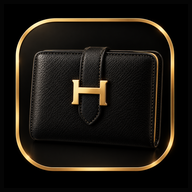
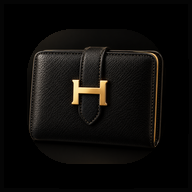
Add files via upload

Changed region(s): [[0.0625, 0.0938, 0.9375, 0.9062]]

diff --git a/index.html b/index.html
@@ -1,7 +1,7 @@
 <!doctype html>
 <html lang="id">
 <head>
-<meta charset="utf-8"><meta name="viewport" content="width=device-width,initial-scale=1,viewport-fit=cover"><meta name="theme-color" content="#142b4a"><meta name="description" content="My Financial Life - pengelola keuangan pribadi"><link rel="manifest" href="manifest.webmanifest"><title>My Financial Life V4.5</title>
+<meta charset="utf-8"><meta name="viewport" content="width=device-width,initial-scale=1,viewport-fit=cover"><meta name="theme-color" content="#142b4a"><meta name="description" content="My Financial Life - pengelola keuangan pribadi"><link rel="manifest" href="manifest.webmanifest"><title>My Financial Life V4.6</title>
 <style>
 :root{--navy:#142b4a;--blue:#2463a6;--bg:#f2f5fa;--card:#fff;--ink:#172334;--muted:#718096;--green:#16845b;--red:#c43d4b;--line:#e5eaf0;--accent:#2463a6}*{box-sizing:border-box}body{margin:0;background:var(--bg);color:var(--ink);font:14px system-ui,-apple-system,Segoe UI,Roboto,sans-serif;padding-bottom:86px}header{background:linear-gradient(135deg,#142b4a,#2463a6);color:#fff;padding:19px 17px 20px;border-radius:0 0 23px 23px}header .top{display:flex;justify-content:space-between;align-items:center}header h1{font-size:19px;margin:0}header small{opacity:.78}.balance{font-size:29px;font-weight:780;margin:16px 0 2px}.sub{font-size:12px;opacity:.78}main{max-width:760px;margin:auto;padding:14px}.grid{display:grid;grid-template-columns:repeat(2,minmax(0,1fr));gap:9px}.card{background:var(--card);padding:14px;border-radius:16px;box-shadow:0 2px 12px #142b4a0a;margin-bottom:11px}.metric small,.muted{color:var(--muted)}.metric strong{display:block;font-size:17px;margin-top:5px}.section{display:flex;justify-content:space-between;align-items:center;margin:17px 2px 9px;gap:8px}.section h2{font-size:16px;margin:0}.btn{border:0;border-radius:11px;padding:10px 13px;background:var(--accent);color:#fff;font-weight:680;cursor:pointer}.btn.secondary{background:#eaf1f9;color:var(--navy)}.btn.danger{background:#fff0f0;color:var(--red)}.btn.small{padding:7px 9px;font-size:12px}.tabs{position:fixed;bottom:0;left:0;right:0;background:#fff;border-top:1px solid var(--line);display:flex;justify-content:space-around;padding:7px 2px calc(7px + env(safe-area-inset-bottom));z-index:5;overflow-x:auto}.tabs button{border:0;background:none;color:var(--muted);font-size:10px;display:flex;flex-direction:column;gap:3px;align-items:center;min-width:52px}.tabs button.active{color:var(--accent);font-weight:800}.tabs b{font-size:19px}.view{display:none}.view.active{display:block}.row{display:flex;justify-content:space-between;align-items:center;gap:9px}.item{padding:11px 0;border-bottom:1px solid var(--line)}.item:last-child{border:0}.amount.income{color:var(--green);font-weight:750}.amount.expense{color:var(--red);font-weight:750}.amount.transfer{color:#7654a6;font-weight:750}input,select,textarea{width:100%;padding:11px;border:1px solid #dce3eb;border-radius:10px;background:#fff;font:inherit;margin:5px 0 11px;color:var(--ink)}label{font-size:12px;color:var(--muted);font-weight:700}.formgrid{display:grid;grid-template-columns:1fr 1fr;gap:8px}.full{grid-column:1/-1}.pill{font-size:10px;padding:4px 8px;border-radius:20px;background:#edf3f9;color:var(--navy);white-space:nowrap}.bar{height:9px;background:#e8edf3;border-radius:9px;overflow:hidden;margin-top:8px}.bar span{display:block;height:100%;background:var(--accent)}.empty{text-align:center;color:var(--muted);padding:20px 5px}.notice{font-size:11px;color:var(--muted);line-height:1.5}.actions{display:flex;gap:6px;flex-wrap:wrap}.hide{display:none!important}.positive{color:var(--green)}.negative{color:var(--red)}.two{display:grid;grid-template-columns:1fr 1fr;gap:8px}.tag{display:inline-block;background:#eef3f8;padding:4px 8px;border-radius:8px;font-size:11px;color:#40546c}.progress{font-size:11px;color:var(--muted);margin-top:5px}.chart{display:flex;align-items:end;gap:8px;height:125px;padding:8px 2px 0}.chartcol{flex:1;text-align:center;font-size:10px;color:var(--muted)}.chartbar{background:#4b83bb;border-radius:6px 6px 2px 2px;min-height:3px;margin:0 auto 5px;width:70%;}.lock{position:fixed;inset:0;background:#f2f5fa;z-index:20;display:none;align-items:center;justify-content:center;padding:22px}.lockbox{background:#fff;border-radius:20px;padding:22px;width:min(100%,380px);text-align:center;box-shadow:0 10px 40px #142b4a20}.lock.show{display:flex}dialog{border:0;border-radius:18px;width:min(94%,520px);padding:19px;box-shadow:0 15px 60px #0003;max-height:88vh;overflow:auto}dialog::backdrop{background:#10233d88}hr{border:0;border-top:1px solid var(--line);margin:15px 0}
 
@@ -26,7 +26,7 @@ header{background:linear-gradient(135deg,#171717 0%,var(--accent-dark) 100%);box
 input:focus,select:focus,textarea:focus{outline:2px solid color-mix(in srgb,var(--accent) 28%,transparent);border-color:var(--accent)}
 .bar span,.chartbar{background:var(--accent)}
 
-.login-icon{display:block;width:112px;height:112px;object-fit:contain;margin:0 auto 18px;border-radius:24px;filter:drop-shadow(0 8px 18px #0003)}.lockbox{padding:25px 22px}.lockbox input{text-align:center;letter-spacing:.35em;font-size:20px}
+.login-icon{display:block;width:112px;height:112px;object-fit:contain;margin:0 auto 18px;border:0;border-radius:0;background:transparent;box-shadow:none;filter:none}.lockbox{padding:25px 22px}.lockbox input{text-align:center;letter-spacing:.35em;font-size:20px}
 .security-choices{display:grid;grid-template-columns:1fr 1fr;gap:14px;margin:8px 0 4px}
 .security-choice{border:1px solid #b88d3d;border-radius:18px;background:linear-gradient(145deg,#292929,#111);color:#e0b95f;min-height:126px;padding:17px 10px;display:flex;flex-direction:column;align-items:center;justify-content:center;gap:10px;font:600 13px system-ui;cursor:pointer;box-shadow:inset 0 1px 0 #ffffff12}
 .security-choice:active{transform:scale(.98)}
@@ -36,8 +36,16 @@ input:focus,select:focus,textarea:focus{outline:2px solid color-mix(in srgb,var(
 .pin-entry input{background:#202020;color:#fff;border:1px solid #b88d3d;letter-spacing:.35em;text-align:center;font-size:20px}
 .lock{background:radial-gradient(ellipse at center,#25221b 0%,#111 58%,#080808 100%)}
 .lockbox{background:#151515;border:1px solid #8f6b2e;box-shadow:0 15px 45px #0009;color:#f4ead4}
+
+/* V4.6 finance controls */
+.balance-line{display:flex;align-items:center;gap:10px}
+.eye-toggle{border:1px solid #d2b36d;background:#2a251b;color:#f0cc78;border-radius:10px;width:38px;height:34px;font-size:18px;cursor:pointer}
+.tabs button.active{background:var(--accent-soft);border-radius:12px;padding:5px 8px;box-shadow:inset 0 0 0 1px var(--accent-line);color:var(--accent-dark)}
+.security-choice svg{width:34px;height:34px}
+.security-choice{min-height:108px;padding:13px 8px;gap:7px}
+input[data-money]{font-variant-numeric:tabular-nums}
 </style></head><body data-page="dashboard">
-<header><div class="top"><div><h1>My Financial Life</h1><small>V4.5 • Personal Finance</small></div><span class="pill">IDR • RUPIAH</span></div><div class="balance" id="netWorth">Rp0</div><div class="sub">Estimasi kekayaan bersih</div></header>
+<header><div class="top"><div><h1>My Financial Life</h1><small>V4.6 • Personal Finance</small></div><span class="pill">IDR • RUPIAH</span></div><div class="balance-line"><div class="balance" id="netWorth">Rp0</div><button class="eye-toggle" id="netWorthEye" type="button" onclick="toggleNetWorth()" aria-label="Sembunyikan estimasi kekayaan bersih">◉</button></div><div class="sub">Estimasi kekayaan bersih</div></header>
 <main>
 <section id="dashboard" class="view active"><div class="grid"><div class="card metric"><small>Pemasukan bulan ini</small><strong id="monthIn">Rp0</strong></div><div class="card metric"><small>Pengeluaran bulan ini</small><strong id="monthOut">Rp0</strong></div><div class="card metric"><small>Saldo seluruh akun</small><strong id="totalBalance">Rp0</strong></div><div class="card metric"><small>Selisih bulan ini</small><strong id="monthNet">Rp0</strong></div></div>
 <div class="section"><h2>Analisis keuangan</h2><span class="pill" id="analysisMonth"></span></div><div class="card" id="insights"></div><div class="card"><b>Tren 6 bulan terakhir</b><div id="trendChart" class="chart"></div><div class="notice">Grafik menunjukkan total pengeluaran bulanan.</div></div>
@@ -49,7 +57,7 @@ input:focus,select:focus,textarea:focus{outline:2px solid color-mix(in srgb,var(
 <section id="settings" class="view"><div class="section"><h2>Keamanan & data</h2></div><div class="card"><b>Kunci aplikasi</b><p class="notice">PIN membantu mencegah orang lain membuka aplikasi pada perangkat ini. Biometrik bergantung pada dukungan browser/perangkat. Ini bukan enkripsi database atau perlindungan terhadap orang yang dapat mengakses penyimpanan browser.</p><div class="actions"><button class="btn" onclick="setupPin()">Atur / ubah PIN</button><button class="btn secondary" onclick="toggleBiometric()">Atur biometrik</button><button class="btn danger" onclick="removePin()">Nonaktifkan PIN</button></div><p class="notice" id="securityStatus"></p></div><div class="card"><b>Backup & pemulihan</b><p class="notice">Backup mencakup akun, transaksi, tujuan, anggaran, jadwal, dan utang. Simpan file JSON di tempat pribadi yang aman; jangan unggah ke repository publik.</p><div class="actions"><button class="btn" onclick="backup()">Ekspor backup</button><label class="btn secondary" style="cursor:pointer">Pulihkan backup<input id="restoreFile" type="file" accept="application/json" class="hide" onchange="restore(event)"></label></div><p class="notice">Sebelum memulihkan, aplikasi akan membuat backup data saat ini dan meminta konfirmasi.</p><hr><b>Data aplikasi</b><button class="btn danger" onclick="resetData()">Hapus seluruh data</button></div><div class="card"><b>Tentang aplikasi</b><p class="notice">My Financial Life V4.3 berjalan secara lokal di perangkat. Tidak ada login atau sinkronisasi cloud. Untuk pindah perangkat, ekspor lalu pulihkan file backup.</p></div></section>
 </main>
 <nav class="tabs"><button class="active" onclick="go('dashboard',this)"><b>🏠</b>Beranda</button><button onclick="go('transactions',this)"><b>💸</b>Transaksi</button><button onclick="go('accounts',this)"><b>🏦</b>Akun</button><button onclick="go('goals',this)"><b>🎯</b>Tujuan</button><button onclick="go('planning',this)"><b>📊</b>Rencana</button><button onclick="go('settings',this)"><b>⚙</b>Data</button></nav>
-<dialog id="txDialog"><form id="txForm"><div class="row"><h3 id="formTitle">Tambah transaksi</h3><button type="button" class="btn secondary small" onclick="txDialog.close()">Tutup</button></div><input type="hidden" id="txId"><label>Jenis</label><select id="txType"><option value="expense">Pengeluaran</option><option value="income">Pemasukan</option></select><label>Nominal (Rp)</label><input id="txAmount" type="number" min="1" step="1" required placeholder="50000"><label>Keterangan</label><input id="txNote" required placeholder="Contoh: Belanja bulanan"><div class="formgrid"><div><label>Tanggal</label><input id="txDate" type="date" required></div><div><label>Akun</label><select id="txAccount"></select></div></div><label>Kategori</label><select id="txCategory"></select><button class="btn" style="width:100%">Simpan transaksi</button></form></dialog>
+<dialog id="txDialog"><form id="txForm"><div class="row"><h3 id="formTitle">Tambah transaksi</h3><button type="button" class="btn secondary small" onclick="txDialog.close()">Tutup</button></div><input type="hidden" id="txId"><label>Jenis</label><select id="txType"><option value="expense">Pengeluaran</option><option value="income">Pemasukan</option></select><label>Nominal (Rp)</label><input id="txAmount" type="text" inputmode="numeric" data-money required placeholder="50.000"><label>Keterangan</label><input id="txNote" required placeholder="Contoh: Belanja bulanan"><div class="formgrid"><div><label>Tanggal</label><input id="txDate" type="date" required></div><div><label>Akun</label><select id="txAccount"></select></div></div><label>Kategori</label><select id="txCategory"></select><button class="btn" style="width:100%">Simpan transaksi</button></form></dialog>
 <div class="lock" id="lockScreen">
   <div class="lockbox">
     <img class="login-icon" src="./icon-192.png" alt=""/>
@@ -77,21 +85,30 @@ let data=load();function load(){try{let old=JSON.parse(localStorage.getItem(KEY)
 function esc(s){return String(s??'').replace(/[&<>"']/g,c=>({'&':'&amp;','<':'&lt;','>':'&gt;','"':'&quot;',"'":'&#39;'}[c]))}function accountBalance(id){let a=data.accounts.find(x=>x.id===id);let tx=data.tx.filter(t=>t.account===id).reduce((s,t)=>s+(t.type==='income'?1:-1)*Number(t.amount),0);let tr=(data.transfers||[]).reduce((s,t)=>s+(t.from===id?-Number(t.amount):t.to===id?Number(t.amount):0),0);return (Number(a?.opening)||0)+tx+tr}function totals(){let t=data.tx.filter(x=>x.date.startsWith(month()));return {inc:t.filter(x=>x.type==='income').reduce((s,x)=>s+ +x.amount,0),out:t.filter(x=>x.type==='expense').reduce((s,x)=>s+ +x.amount,0)}}
 function go(id,el){document.querySelectorAll('.view').forEach(x=>x.classList.remove('active'));document.getElementById(id).classList.add('active');document.body.dataset.page=id;document.querySelectorAll('.tabs button').forEach(x=>x.classList.remove('active'));if(el)el.classList.add('active');else [...document.querySelectorAll('.tabs button')].find(x=>x.getAttribute('onclick')?.includes("'"+id+"'"))?.classList.add('active');render()}
 function txHtml(t){let acc=data.accounts.find(a=>a.id===t.account)?.name||'Akun dihapus';return `<div class="item row"><div style="min-width:0"><b>${esc(t.note)}</b><div class="muted" style="font-size:11px">${t.date} • ${esc(t.category||'Lainnya')} • ${esc(acc)}</div></div><div style="text-align:right;flex-shrink:0"><div class="amount ${t.type}">${t.type==='income'?'+':'−'}${rupiah(t.amount)}</div><div class="actions" style="justify-content:flex-end;margin-top:5px"><button class="btn small secondary" onclick="editTx('${t.id}')">Edit</button><button class="btn small danger" onclick="deleteTx('${t.id}')">Hapus</button></div></div></div>`}
-function render(){let t=totals(),bal=data.accounts.reduce((s,a)=>s+accountBalance(a.id),0),assets=data.assets.filter(a=>a.kind==='asset').reduce((s,a)=>s+ +a.amount,0),debts=data.assets.filter(a=>a.kind==='debt').reduce((s,a)=>s+ +a.amount,0)+(data.debts||[]).reduce((s,d)=>s+Math.max(0,d.remaining),0);document.getElementById('netWorth').textContent=rupiah(bal+assets-debts);document.getElementById('monthIn').textContent=rupiah(t.inc);document.getElementById('monthOut').textContent=rupiah(t.out);document.getElementById('totalBalance').textContent=rupiah(bal);document.getElementById('monthNet').textContent=rupiah(t.inc-t.out);document.getElementById('analysisMonth').textContent=month();let recent=[...data.tx].sort((a,b)=>b.date.localeCompare(a.date)).slice(0,5);document.getElementById('recent').innerHTML=recent.length?recent.map(txHtml).join(''):'<div class="empty">Belum ada transaksi.</div>';document.getElementById('goalSummary').innerHTML=data.goals.slice(0,3).map(goalHtml).join('')||'<div class="empty">Belum ada tujuan tabungan.</div>';renderTransactions();renderAccounts();renderGoals();renderPlanning();renderInsights();renderSecurity()}
+let netWorthHidden=false;
+function toggleNetWorth(){netWorthHidden=!netWorthHidden;const el=document.getElementById('netWorth'),btn=document.getElementById('netWorthEye');el.textContent=netWorthHidden?'••••••••':el.dataset.actual||el.textContent;btn.textContent=netWorthHidden?'◎':'◉';btn.setAttribute('aria-label',netWorthHidden?'Tampilkan estimasi kekayaan bersih':'Sembunyikan estimasi kekayaan bersih')}
+function parseNominal(v){return Number(String(v??'').replace(/[^0-9-]/g,''))||0}
+function formatNominal(v){let digits=String(v??'').replace(/[^0-9]/g,'');return digits.replace(/\B(?=(\d{3})+(?!\d))/g,'.')}
+document.addEventListener('input',e=>{if(e.target.matches('[data-money]')){e.target.value=formatNominal(e.target.value)}});
+function render(){let t=totals(),bal=data.accounts.reduce((s,a)=>s+accountBalance(a.id),0),assets=data.assets.filter(a=>a.kind==='asset').reduce((s,a)=>s+ +a.amount,0),debts=data.assets.filter(a=>a.kind==='debt').reduce((s,a)=>s+ +a.amount,0)+(data.debts||[]).reduce((s,d)=>s+Math.max(0,d.remaining),0);const nw=document.getElementById('netWorth');nw.dataset.actual=rupiah(bal+assets-debts);nw.textContent=netWorthHidden?'••••••••':nw.dataset.actual;document.getElementById('monthIn').textContent=rupiah(t.inc);document.getElementById('monthOut').textContent=rupiah(t.out);document.getElementById('totalBalance').textContent=rupiah(bal);document.getElementById('monthNet').textContent=rupiah(t.inc-t.out);document.getElementById('analysisMonth').textContent=month();let recent=[...data.tx].sort((a,b)=>b.date.localeCompare(a.date)).slice(0,5);document.getElementById('recent').innerHTML=recent.length?recent.map(txHtml).join(''):'<div class="empty">Belum ada transaksi.</div>';document.getElementById('goalSummary').innerHTML=data.goals.slice(0,3).map(goalHtml).join('')||'<div class="empty">Belum ada tujuan tabungan.</div>';renderTransactions();renderAccounts();renderGoals();renderPlanning();renderInsights();renderSecurity()}
 function renderTransactions(){let f=document.getElementById('filterMonth')?.value||'',q=(document.getElementById('searchTx')?.value||'').toLowerCase(),ty=document.getElementById('filterType')?.value||'',ac=document.getElementById('filterAccount')?.value||'',cat=document.getElementById('filterCategory')?.value||'';let list=[...data.tx].filter(t=>(!f||t.date.startsWith(f))&&(!q||(t.note+' '+t.category).toLowerCase().includes(q))&&(!ty||t.type===ty)&&(!ac||t.account===ac)&&(!cat||t.category===cat)).sort((a,b)=>b.date.localeCompare(a.date));let a=document.getElementById('filterAccount');if(a){let v=a.value;a.innerHTML='<option value="">Semua akun</option>'+data.accounts.map(x=>`<option value="${x.id}">${esc(x.name)}</option>`).join('');a.value=v}let c=document.getElementById('filterCategory');if(c){let v=c.value,cs=[...new Set(data.tx.map(x=>x.category).filter(Boolean))];c.innerHTML='<option value="">Semua kategori</option>'+cs.map(x=>`<option>${esc(x)}</option>`).join('');c.value=v}document.getElementById('transactionList').innerHTML=list.map(txHtml).join('')||'<div class="empty">Tidak ada transaksi sesuai filter.</div>'}
 function renderAccounts(){document.getElementById('accountList').innerHTML=data.accounts.map(a=>`<div class="item row"><div><b>${esc(a.name)}</b><div class="muted" style="font-size:11px">Saldo awal ${rupiah(a.opening)}</div></div><div style="text-align:right"><b>${rupiah(accountBalance(a.id))}</b><div class="actions"><button class="btn small secondary" onclick="editAccount('${a.id}')">Ubah</button><button class="btn small danger" onclick="deleteAccount('${a.id}')">Hapus</button></div></div></div>`).join('');let tr=[...(data.transfers||[])].sort((a,b)=>b.date.localeCompare(a.date));document.getElementById('transferList').innerHTML=tr.map(x=>`<div class="item row"><div><b>${esc(data.accounts.find(a=>a.id===x.from)?.name||'Akun')} → ${esc(data.accounts.find(a=>a.id===x.to)?.name||'Akun')}</b><div class="notice">${x.date}</div></div><b>${rupiah(x.amount)}</b></div>`).join('')||'<div class="empty">Belum ada transfer.</div>'}
 function goalHtml(g){let pct=g.target?Math.min(100,g.saved/g.target*100):0;return `<div class="item"><div class="row"><b>${esc(g.name)}</b><span class="pill">${pct.toFixed(0)}%</span></div><div class="bar"><span style="width:${pct}%"></span></div><div class="row muted" style="font-size:11px;margin-top:6px"><span>${rupiah(g.saved)} terkumpul</span><span>Target ${rupiah(g.target)}</span></div><div class="actions" style="margin-top:8px"><button class="btn small secondary" onclick="contribute('${g.id}')">Tambah tabungan</button><button class="btn small secondary" onclick="editGoal('${g.id}')">Ubah</button><button class="btn small danger" onclick="removeGoal('${g.id}')">Hapus</button></div></div>`}
 function renderGoals(){let emergency=data.goals.find(g=>g.emergency);document.getElementById('emergencyCard').innerHTML=`<b>🛟 Dana darurat</b><p class="notice">Saran target umum: 3–6 kali pengeluaran bulanan. Sesuaikan dengan kondisi pribadi.</p>${emergency?goalHtml(emergency):'<button class="btn" onclick="createEmergency()">Buat target dana darurat</button>'}`;document.getElementById('goalList').innerHTML=data.goals.map(g=>`<div class="card">${goalHtml(g)}</div>`).join('')||'<div class="card empty">Buat tujuan seperti dana darurat, liburan, atau pendidikan.</div>'}
-function renderPlanning(){let t=totals();document.getElementById('categoryBudgets').innerHTML=data.categoryBudgets.length?data.categoryBudgets.map(b=>{let used=data.tx.filter(x=>x.type==='expense'&&x.date.startsWith(month())&&x.category===b.category).reduce((s,x)=>s+Number(x.amount),0),p=Math.min(100,used/b.amount*100);return `<div class="item"><div class="row"><b>${esc(b.category)}</b><span>${rupiah(used)} / ${rupiah(b.amount)}</span></div><div class="bar"><span style="width:${p}%"></span></div><div class="row progress"><span>${p.toFixed(0)}% terpakai</span><button class="btn small danger" onclick="removeCategoryBudget('${b.id}')">Hapus</button></div></div>`}).join(''):'<div class="empty">Belum ada anggaran kategori.</div>';document.getElementById('budgetView').innerHTML=data.budget?`<div class="row"><b>Batas pengeluaran bulanan</b><b>${rupiah(data.budget)}</b></div><div class="bar"><span style="width:${Math.min(100,t.out/data.budget*100)}%"></span></div><p class="notice">${rupiah(t.out)} terpakai • ${rupiah(data.budget-t.out)} tersisa</p>`:'Belum ada anggaran umum.';document.getElementById('recurringList').innerHTML=data.recurring.map(r=>`<div class="item row"><div><b>${esc(r.name)}</b><div class="notice">${esc(r.category)} • ${r.day} tiap bulan • ${r.active?'Aktif':'Nonaktif'}</div></div><div style="text-align:right"><b>${rupiah(r.amount)}</b><div class="actions"><button class="btn small secondary" onclick="toggleRecurring('${r.id}')">${r.active?'Jeda':'Aktifkan'}</button><button class="btn small danger" onclick="deleteRecurring('${r.id}')">Hapus</button></div></div></div>`).join('')||'<div class="empty">Belum ada jadwal tagihan/rutin.</div>';document.getElementById('debtList').innerHTML=data.debts.map(d=>`<div class="item"><div class="row"><b>${esc(d.name)}</b><span class="tag">Sisa ${rupiah(d.remaining)}</span></div><div class="notice">Awal ${rupiah(d.total)} • Cicilan ${rupiah(d.installment)} / bulan • Jatuh tempo tanggal ${d.due||'-'}</div><div class="actions"><button class="btn small" onclick="payDebt('${d.id}')">Catat pembayaran</button><button class="btn small danger" onclick="deleteDebt('${d.id}')">Hapus</button></div></div>`).join('')||'<div class="empty">Belum ada utang/cicilan tercatat.</div>';document.getElementById('assetList').innerHTML=data.assets.map(a=>`<div class="item row"><div><b>${esc(a.name)}</b><div class="muted">${a.kind==='asset'?'Aset':'Kewajiban'}</div></div><b>${rupiah(a.amount)}</b><button class="btn small danger" onclick="removeAsset('${a.id}')">×</button></div>`).join('')||'<div class="empty">Belum ada aset atau kewajiban lain.</div>'}
+function renderPlanning(){let t=totals();document.getElementById('categoryBudgets').innerHTML=data.categoryBudgets.length?data.categoryBudgets.map(b=>{let used=data.tx.filter(x=>x.type==='expense'&&x.date.startsWith(month())&&x.category===b.category).reduce((s,x)=>s+Number(x.amount),0),p=Math.min(100,used/b.amount*100);return `<div class="item"><div class="row"><b>${esc(b.category)}</b><span>${rupiah(used)} / ${rupiah(b.amount)}</span></div><div class="bar"><span style="width:${p}%"></span></div><div class="row progress"><span>${p.toFixed(0)}% terpakai</span><button class="btn small secondary" onclick="editCategoryBudget('${b.id}')">Ubah</button><button class="btn small danger" onclick="removeCategoryBudget('${b.id}')">Hapus</button></div></div>`}).join(''):'<div class="empty">Belum ada anggaran kategori.</div>';document.getElementById('budgetView').innerHTML=data.budget?`<div class="row"><b>Batas pengeluaran bulanan</b><b>${rupiah(data.budget)}</b></div><div class="bar"><span style="width:${Math.min(100,t.out/data.budget*100)}%"></span></div><p class="notice">${rupiah(t.out)} terpakai • ${rupiah(data.budget-t.out)} tersisa</p>`:'Belum ada anggaran umum.';document.getElementById('recurringList').innerHTML=data.recurring.map(r=>`<div class="item row"><div><b>${esc(r.name)}</b><div class="notice">${esc(r.category)} • ${r.day} tiap bulan • ${r.active?'Aktif':'Nonaktif'}</div></div><div style="text-align:right"><b>${rupiah(r.amount)}</b><div class="actions"><button class="btn small secondary" onclick="editRecurring('${r.id}')">Ubah</button><button class="btn small secondary" onclick="toggleRecurring('${r.id}')">${r.active?'Jeda':'Aktifkan'}</button><button class="btn small danger" onclick="deleteRecurring('${r.id}')">Hapus</button></div></div></div>`).join('')||'<div class="empty">Belum ada jadwal tagihan/rutin.</div>';document.getElementById('debtList').innerHTML=data.debts.map(d=>`<div class="item"><div class="row"><b>${esc(d.name)}</b><span class="tag">Sisa ${rupiah(d.remaining)}</span></div><div class="notice">Awal ${rupiah(d.total)} • Cicilan ${rupiah(d.installment)} / bulan • Jatuh tempo tanggal ${d.due||'-'}</div><div class="actions"><button class="btn small secondary" onclick="editDebt('${d.id}')">Ubah</button><button class="btn small" onclick="payDebt('${d.id}')">Catat pembayaran</button><button class="btn small danger" onclick="deleteDebt('${d.id}')">Hapus</button></div></div>`).join('')||'<div class="empty">Belum ada utang/cicilan tercatat.</div>';document.getElementById('assetList').innerHTML=data.assets.map(a=>`<div class="item row"><div><b>${esc(a.name)}</b><div class="muted">${a.kind==='asset'?'Aset':'Kewajiban'}</div></div><b>${rupiah(a.amount)}</b><button class="btn small danger" onclick="removeAsset('${a.id}')">×</button></div>`).join('')||'<div class="empty">Belum ada aset atau kewajiban lain.</div>'}
 function renderInsights(){let t=totals(),by={};data.tx.filter(x=>x.type==='expense'&&x.date.startsWith(month())).forEach(x=>by[x.category]=(by[x.category]||0)+Number(x.amount));let top=Object.entries(by).sort((a,b)=>b[1]-a[1])[0],savings=t.inc-t.out,alerts=[];if(t.inc===0&&t.out>0)alerts.push('Belum ada pemasukan tercatat bulan ini.');if(t.inc>0)alerts.push(`Rasio tabungan bulan ini: ${(savings/t.inc*100).toFixed(1)}% dari pemasukan.`);if(top)alerts.push(`Kategori pengeluaran terbesar: ${top[0]} (${rupiah(top[1])}).`);data.categoryBudgets.forEach(b=>{let used=by[b.category]||0;if(used>=b.amount)alerts.push(`Anggaran ${b.category} sudah terlampaui.`);else if(used>=b.amount*.8)alerts.push(`Anggaran ${b.category} sudah terpakai lebih dari 80%.`)});document.getElementById('insights').innerHTML=(alerts.length?alerts:['Catat transaksi untuk mendapatkan analisis otomatis.']).map(x=>`<div class="item">• ${esc(x)}</div>`).join('')+`<div class="row" style="margin-top:9px"><span>Arus kas bulan ini</span><b class="${savings>=0?'positive':'negative'}">${rupiah(savings)}</b></div>`;let vals=[];for(let i=5;i>=0;i--){let d=new Date();d.setDate(1);d.setMonth(d.getMonth()-i);let m=d.toISOString().slice(0,7),v=data.tx.filter(x=>x.type==='expense'&&x.date.startsWith(m)).reduce((s,x)=>s+Number(x.amount),0);vals.push({m,v})}let max=Math.max(1,...vals.map(x=>x.v));document.getElementById('trendChart').innerHTML=vals.map(x=>`<div class="chartcol"><div class="chartbar" style="height:${Math.max(3,x.v/max*90)}px"></div>${x.m.slice(5)}</div>`).join('')}
-function openForm(t){document.getElementById('txForm').reset();document.getElementById('txId').value=t?.id||'';document.getElementById('formTitle').textContent=t?'Edit transaksi':'Tambah transaksi';document.getElementById('txType').value=t?.type||'expense';document.getElementById('txAmount').value=t?.amount||'';document.getElementById('txNote').value=t?.note||'';document.getElementById('txDate').value=t?.date||today();document.getElementById('txAccount').innerHTML=data.accounts.map(a=>`<option value="${a.id}">${esc(a.name)}</option>`).join('');document.getElementById('txAccount').value=t?.account||data.accounts[0]?.id;fillCats(t?.category);txDialog.showModal()}function fillCats(selected){let cats=txType.value==='income'?['Gaji','Bonus','Usaha','Investasi','Hadiah','Lainnya']:['Makanan','Transportasi','Tagihan','Belanja','Kesehatan','Hiburan','Pendidikan','Rumah tangga','Cicilan','Perawatan diri','Lainnya'];txCategory.innerHTML=cats.map(c=>`<option>${c}</option>`).join('');if(selected&&!cats.includes(selected))txCategory.add(new Option(selected,selected));if(selected)txCategory.value=selected}txType.addEventListener('change',()=>fillCats());txForm.addEventListener('submit',e=>{e.preventDefault();let id=txId.value,item={id:id||uid(),type:txType.value,amount:Number(txAmount.value),note:txNote.value.trim(),date:txDate.value,account:txAccount.value,category:txCategory.value};if(id)data.tx=data.tx.map(x=>x.id===id?item:x);else data.tx.push(item);txDialog.close();save()});function editTx(id){openForm(data.tx.find(t=>t.id===id))}function deleteTx(id){if(confirm('Hapus transaksi ini?')){data.tx=data.tx.filter(t=>t.id!==id);save()}}
+function openForm(t){document.getElementById('txForm').reset();document.getElementById('txId').value=t?.id||'';document.getElementById('formTitle').textContent=t?'Edit transaksi':'Tambah transaksi';document.getElementById('txType').value=t?.type||'expense';document.getElementById('txAmount').value=t?formatNominal(t.amount):'';document.getElementById('txNote').value=t?.note||'';document.getElementById('txDate').value=t?.date||today();document.getElementById('txAccount').innerHTML=data.accounts.map(a=>`<option value="${a.id}">${esc(a.name)}</option>`).join('');document.getElementById('txAccount').value=t?.account||data.accounts[0]?.id;fillCats(t?.category);txDialog.showModal()}function fillCats(selected){let cats=txType.value==='income'?['Gaji','Bonus','Usaha','Investasi','Hadiah','Lainnya']:['Makanan','Transportasi','Tagihan','Belanja','Kesehatan','Hiburan','Pendidikan','Rumah tangga','Cicilan','Perawatan diri','Lainnya'];txCategory.innerHTML=cats.map(c=>`<option>${c}</option>`).join('');if(selected&&!cats.includes(selected))txCategory.add(new Option(selected,selected));if(selected)txCategory.value=selected}txType.addEventListener('change',()=>fillCats());txForm.addEventListener('submit',e=>{e.preventDefault();let id=txId.value,item={id:id||uid(),type:txType.value,amount:parseNominal(txAmount.value),note:txNote.value.trim(),date:txDate.value,account:txAccount.value,category:txCategory.value};if(id)data.tx=data.tx.map(x=>x.id===id?item:x);else data.tx.push(item);txDialog.close();save()});function editTx(id){openForm(data.tx.find(t=>t.id===id))}function deleteTx(id){if(confirm('Hapus transaksi ini?')){data.tx=data.tx.filter(t=>t.id!==id);save()}}
 function addAccount(){let name=prompt('Nama akun baru:');if(!name)return;let opening=Number(prompt('Saldo awal akun (Rp):','0'));data.accounts.push({id:uid(),name:name.trim(),opening:isFinite(opening)?opening:0});save()}function editAccount(id){let a=data.accounts.find(x=>x.id===id);if(!a)return;let name=prompt('Ubah nama akun:',a.name);if(name===null)return;if(!name.trim())return alert('Nama akun tidak boleh kosong.');let openingText=prompt('Ubah nominal saldo awal akun (Rp):',String(Number(a.opening)||0));if(openingText===null)return;let normalized=openingText.replace(/[^0-9-]/g,'');let opening=Number(normalized);if(!Number.isFinite(opening)||opening<0)return alert('Nominal saldo awal tidak valid. Masukkan angka 0 atau lebih.');a.name=name.trim();a.opening=opening;save();alert('Nama dan saldo awal akun berhasil diperbarui. Saldo akhir akan dihitung ulang dari transaksi dan transfer yang tercatat.')}function deleteAccount(id){let a=data.accounts.find(x=>x.id===id);if(data.accounts.length<=1)return alert('Minimal harus ada satu akun.');if(data.tx.some(t=>t.account===id)||(data.transfers||[]).some(t=>t.from===id||t.to===id))return alert('Akun masih memiliki transaksi/transfer. Pindahkan atau hapus riwayat terkait terlebih dahulu.');if(accountBalance(id)!==0)return alert('Saldo akun harus Rp0 sebelum dihapus.');if(confirm(`Hapus akun ${a.name}?`)){data.accounts=data.accounts.filter(x=>x.id!==id);save()}}
 function transferMoney(){if(data.accounts.length<2)return alert('Tambahkan minimal dua akun.');let menu=data.accounts.map((a,i)=>(i+1)+'. '+a.name+' — saldo '+rupiah(accountBalance(a.id))).join('\n');let fi=Number(prompt('Pilih nomor akun sumber:\n'+menu,'1'))-1;if(!Number.isInteger(fi)||!data.accounts[fi])return;let ti=Number(prompt('Pilih nomor akun tujuan:\n'+menu,data.accounts.findIndex((a,i)=>i!==fi)+1))-1;if(!Number.isInteger(ti)||!data.accounts[ti]||ti===fi)return alert('Akun tujuan tidak valid.');let amount=Number(prompt('Nominal transfer (Rp):','100000'));if(!(amount>0)||amount>accountBalance(data.accounts[fi].id))return alert('Nominal tidak valid atau saldo tidak cukup.');let date=prompt('Tanggal transfer (YYYY-MM-DD):',today());if(!date)return;data.transfers.push({id:uid(),from:data.accounts[fi].id,to:data.accounts[ti].id,amount,date});save();alert('Transfer internal tercatat. Tidak dihitung sebagai pemasukan/pengeluaran.')}
-function addGoal(){let name=prompt('Nama tujuan tabungan:');if(!name)return;let target=Number(prompt('Target dana (Rp):','1000000')),saved=Number(prompt('Dana terkumpul saat ini (Rp):','0'));if(target>0&&saved>=0)data.goals.push({id:uid(),name,target,saved});save()}function createEmergency(){let n=Number(prompt('Target dana darurat (Rp):','10000000'));if(n>0){data.goals.push({id:uid(),name:'Dana Darurat',target:n,saved:0,emergency:true});save()}}function editGoal(id){let g=data.goals.find(x=>x.id===id),name=prompt('Nama tujuan:',g.name);if(name===null)return;let target=Number(prompt('Target dana (Rp):',g.target));if(name.trim()&&target>0){g.name=name;g.target=target;save()}}function contribute(id){let g=data.goals.find(x=>x.id===id),n=Number(prompt('Nominal tambahan tabungan (Rp):','100000'));if(n>0){g.saved+=n;save()}}function removeGoal(id){if(confirm('Hapus tujuan ini?')){data.goals=data.goals.filter(g=>g.id!==id);save()}}
-function setBudget(){let n=Number(prompt('Batas pengeluaran bulanan (Rp):',data.budget||'3000000'));if(n>=0){data.budget=n;save()}}function setCategoryBudget(){let category=prompt('Nama kategori (harus sama dengan kategori transaksi):');if(!category)return;let amount=Number(prompt('Batas anggaran kategori (Rp):','500000'));if(amount>0){let old=data.categoryBudgets.find(x=>x.category.toLowerCase()===category.toLowerCase());if(old)old.amount=amount;else data.categoryBudgets.push({id:uid(),category,amount});save()}}function removeCategoryBudget(id){data.categoryBudgets=data.categoryBudgets.filter(x=>x.id!==id);save()}
-function addRecurring(){let name=prompt('Nama tagihan/transaksi rutin:');if(!name)return;let amount=Number(prompt('Nominal (Rp):','100000')),category=prompt('Kategori:','Tagihan'),day=Number(prompt('Tanggal jatuh tempo setiap bulan (1-31):','1'));if(amount>0&&day>=1&&day<=31){data.recurring.push({id:uid(),name,amount,category,day,active:true});save()}}function toggleRecurring(id){let r=data.recurring.find(x=>x.id===id);r.active=!r.active;save()}function deleteRecurring(id){if(confirm('Hapus jadwal ini?')){data.recurring=data.recurring.filter(x=>x.id!==id);save()}}
-function addDebt(){let name=prompt('Nama utang/cicilan:');if(!name)return;let total=Number(prompt('Total utang awal (Rp):','1000000')),remaining=Number(prompt('Sisa utang saat ini (Rp):',total)),installment=Number(prompt('Cicilan per bulan (Rp):','100000')),due=Number(prompt('Tanggal jatuh tempo (1-31):','1'));if(total>0&&remaining>=0&&remaining<=total&&installment>0)data.debts.push({id:uid(),name,total,remaining,installment,due});save()}function payDebt(id){let d=data.debts.find(x=>x.id===id),n=Number(prompt('Nominal pembayaran (Rp):',d.installment));if(n>0&&n<=d.remaining){d.remaining-=n;let acc=data.accounts[0];data.tx.push({id:uid(),type:'expense',amount:n,note:'Pembayaran '+d.name,date:today(),account:acc.id,category:'Cicilan'});save()}else alert('Nominal pembayaran tidak valid atau melebihi sisa utang.')}function deleteDebt(id){if(confirm('Hapus catatan utang ini?')){data.debts=data.debts.filter(x=>x.id!==id);save()}}
-function addAsset(){let kind=prompt('Ketik "aset" atau "utang":','aset');if(!kind)return;let name=prompt('Nama item:');if(!name)return;let amount=Number(prompt('Nilai (Rp):','0'));if(amount>0)data.assets.push({id:uid(),kind:kind.toLowerCase().startsWith('u')?'debt':'asset',name,amount});save()}function removeAsset(id){if(confirm('Hapus item ini?')){data.assets=data.assets.filter(a=>a.id!==id);save()}}
+function addGoal(){let name=prompt('Nama tujuan tabungan:');if(!name)return;let target=Number(prompt('Target dana (Rp):','1000000')),saved=Number(prompt('Dana terkumpul saat ini (Rp):','0'));if(target>0&&saved>=0)data.goals.push({id:uid(),name,target,saved});save()}function createEmergency(){let n=Number(prompt('Target dana darurat (Rp):','10000000'));if(n>0){data.goals.push({id:uid(),name:'Dana Darurat',target:n,saved:0,emergency:true});save()}}function editGoal(id){let g=data.goals.find(x=>x.id===id);if(!g)return;let name=prompt('Nama tujuan:',g.name);if(name===null)return;let target=parseNominal(prompt('Target dana (Rp):',formatNominal(g.target)));if(!(target>0))return alert('Target harus lebih dari 0.');let saved=parseNominal(prompt('Dana terkumpul saat ini (Rp):',formatNominal(g.saved)));if(saved<0)return alert('Nominal dana tidak valid.');g.name=name.trim()||g.name;g.target=target;g.saved=saved;save();alert('Tujuan dan nominal dana berhasil diperbarui.') }function contribute(id){let g=data.goals.find(x=>x.id===id),n=Number(prompt('Nominal tambahan tabungan (Rp):','100000'));if(n>0){g.saved+=n;save()}}function removeGoal(id){if(confirm('Hapus tujuan ini?')){data.goals=data.goals.filter(g=>g.id!==id);save()}}
+function setBudget(){let n=Number(prompt('Batas pengeluaran bulanan (Rp):',data.budget||'3000000'));if(n>=0){data.budget=n;save()}}function setCategoryBudget(){let category=prompt('Nama kategori (harus sama dengan kategori transaksi):');if(!category)return;let amount=Number(prompt('Batas anggaran kategori (Rp):','500000'));if(amount>0){let old=data.categoryBudgets.find(x=>x.category.toLowerCase()===category.toLowerCase());if(old)old.amount=amount;else data.categoryBudgets.push({id:uid(),category,amount});save()}}function editCategoryBudget(id){let b=data.categoryBudgets.find(x=>x.id===id);if(!b)return;let category=prompt('Ubah kategori:',b.category);if(category===null)return;let amount=parseNominal(prompt('Ubah batas anggaran (Rp):',formatNominal(b.amount)));if(!category.trim()||amount<=0)return alert('Kategori dan nominal harus valid.');b.category=category.trim();b.amount=amount;save()}
+function removeCategoryBudget(id){data.categoryBudgets=data.categoryBudgets.filter(x=>x.id!==id);save()}
+function addRecurring(){let name=prompt('Nama tagihan/transaksi rutin:');if(!name)return;let amount=Number(prompt('Nominal (Rp):','100000')),category=prompt('Kategori:','Tagihan'),day=Number(prompt('Tanggal jatuh tempo setiap bulan (1-31):','1'));if(amount>0&&day>=1&&day<=31){data.recurring.push({id:uid(),name,amount,category,day,active:true});save()}}function editRecurring(id){let r=data.recurring.find(x=>x.id===id);if(!r)return;let name=prompt('Nama jadwal:',r.name);if(name===null)return;let amount=parseNominal(prompt('Nominal baru (Rp):',formatNominal(r.amount)));if(!name.trim()||amount<=0)return alert('Nama dan nominal harus valid.');r.name=name.trim();r.amount=amount;save()}
+function toggleRecurring(id){let r=data.recurring.find(x=>x.id===id);r.active=!r.active;save()}function deleteRecurring(id){if(confirm('Hapus jadwal ini?')){data.recurring=data.recurring.filter(x=>x.id!==id);save()}}
+function addDebt(){let name=prompt('Nama utang/cicilan:');if(!name)return;let total=Number(prompt('Total utang awal (Rp):','1000000')),remaining=Number(prompt('Sisa utang saat ini (Rp):',total)),installment=Number(prompt('Cicilan per bulan (Rp):','100000')),due=Number(prompt('Tanggal jatuh tempo (1-31):','1'));if(total>0&&remaining>=0&&remaining<=total&&installment>0)data.debts.push({id:uid(),name,total,remaining,installment,due});save()}function editDebt(id){let d=data.debts.find(x=>x.id===id);if(!d)return;let name=prompt('Nama utang/cicilan:',d.name);if(name===null)return;let total=parseNominal(prompt('Total utang awal (Rp):',formatNominal(d.total)));let remaining=parseNominal(prompt('Sisa utang saat ini (Rp):',formatNominal(d.remaining)));let installment=parseNominal(prompt('Cicilan per bulan (Rp):',formatNominal(d.installment)));if(!name.trim()||total<=0||remaining<0||remaining>total||installment<=0)return alert('Periksa kembali nominal utang.');d.name=name.trim();d.total=total;d.remaining=remaining;d.installment=installment;save()}
+function payDebt(id){let d=data.debts.find(x=>x.id===id),n=Number(prompt('Nominal pembayaran (Rp):',d.installment));if(n>0&&n<=d.remaining){d.remaining-=n;let acc=data.accounts[0];data.tx.push({id:uid(),type:'expense',amount:n,note:'Pembayaran '+d.name,date:today(),account:acc.id,category:'Cicilan'});save()}else alert('Nominal pembayaran tidak valid atau melebihi sisa utang.')}function deleteDebt(id){if(confirm('Hapus catatan utang ini?')){data.debts=data.debts.filter(x=>x.id!==id);save()}}
+function addAsset(){let kind=prompt('Ketik "aset" atau "utang":','aset');if(!kind)return;let name=prompt('Nama item:');if(!name)return;let amount=Number(prompt('Nilai (Rp):','0'));if(amount>0)data.assets.push({id:uid(),kind:kind.toLowerCase().startsWith('u')?'debt':'asset',name,amount});save()}function editAsset(id){let a=data.assets.find(x=>x.id===id);if(!a)return;let name=prompt('Nama item:',a.name);if(name===null)return;let amount=parseNominal(prompt('Nilai baru (Rp):',formatNominal(a.amount)));if(!name.trim()||amount<=0)return alert('Nama dan nominal harus valid.');a.name=name.trim();a.amount=amount;save()}
+function removeAsset(id){if(confirm('Hapus item ini?')){data.assets=data.assets.filter(a=>a.id!==id);save()}}
 function backup(){let blob=new Blob([JSON.stringify({app:'My Financial Life',version:'4.1',exportedAt:new Date().toISOString(),data},null,2)],{type:'application/json'}),a=document.createElement('a');a.href=URL.createObjectURL(blob);a.download='my-financial-life-backup-'+today()+'.json';a.click();setTimeout(()=>URL.revokeObjectURL(a.href),1000)}function restore(e){let f=e.target.files[0];if(!f)return;backup();let r=new FileReader();r.onload=()=>{try{let raw=JSON.parse(r.result),d=raw.data||raw;if(!Array.isArray(d.accounts)||!Array.isArray(d.tx))throw Error('Format backup tidak dikenali');if(!confirm('Pulihkan backup? Data yang sekarang akan diganti. Backup kondisi saat ini sudah diunduh.'))return;data={...defaults(),...d,categoryBudgets:d.categoryBudgets||[],recurring:d.recurring||[],debts:d.debts||[],transfers:d.transfers||[]};save();alert('Pemulihan selesai.')}catch(err){alert('File backup tidak valid atau rusak.')}};r.readAsText(f);e.target.value=''}function resetData(){if(confirm('Semua akun, transaksi, tujuan, anggaran, tagihan, dan utang akan dihapus. Ekspor backup dahulu. Lanjutkan?')){if(confirm('Konfirmasi terakhir: hapus seluruh data?')){data=defaults();save()}}}
 function showPinEntry(){const el=document.getElementById('pinEntry');el.classList.remove('hide');document.getElementById('unlockPin').focus();document.getElementById('lockError').textContent=''}
 // PIN hashing uses Web Crypto; device biometric uses a platform authenticator credential as a local unlock gate.

diff --git a/sw.js b/sw.js
@@ -1,4 +1,4 @@
-const CACHE='mfl-v45-minimal-security-1';
+const CACHE='mfl-v46-finance-controls-3';
 const ASSETS=['./','./index.html','./manifest.webmanifest','./icon-192.png','./icon-512.png','./icon-maskable-512.png','./icon.svg'];
 self.addEventListener('install',event=>event.waitUntil(caches.open(CACHE).then(cache=>cache.addAll(ASSETS)).then(()=>self.skipWaiting())));
 self.addEventListener('activate',event=>event.waitUntil(caches.keys().then(keys=>Promise.all(keys.filter(key=>key!==CACHE).map(key=>caches.delete(key)))).then(()=>self.clients.claim())));
